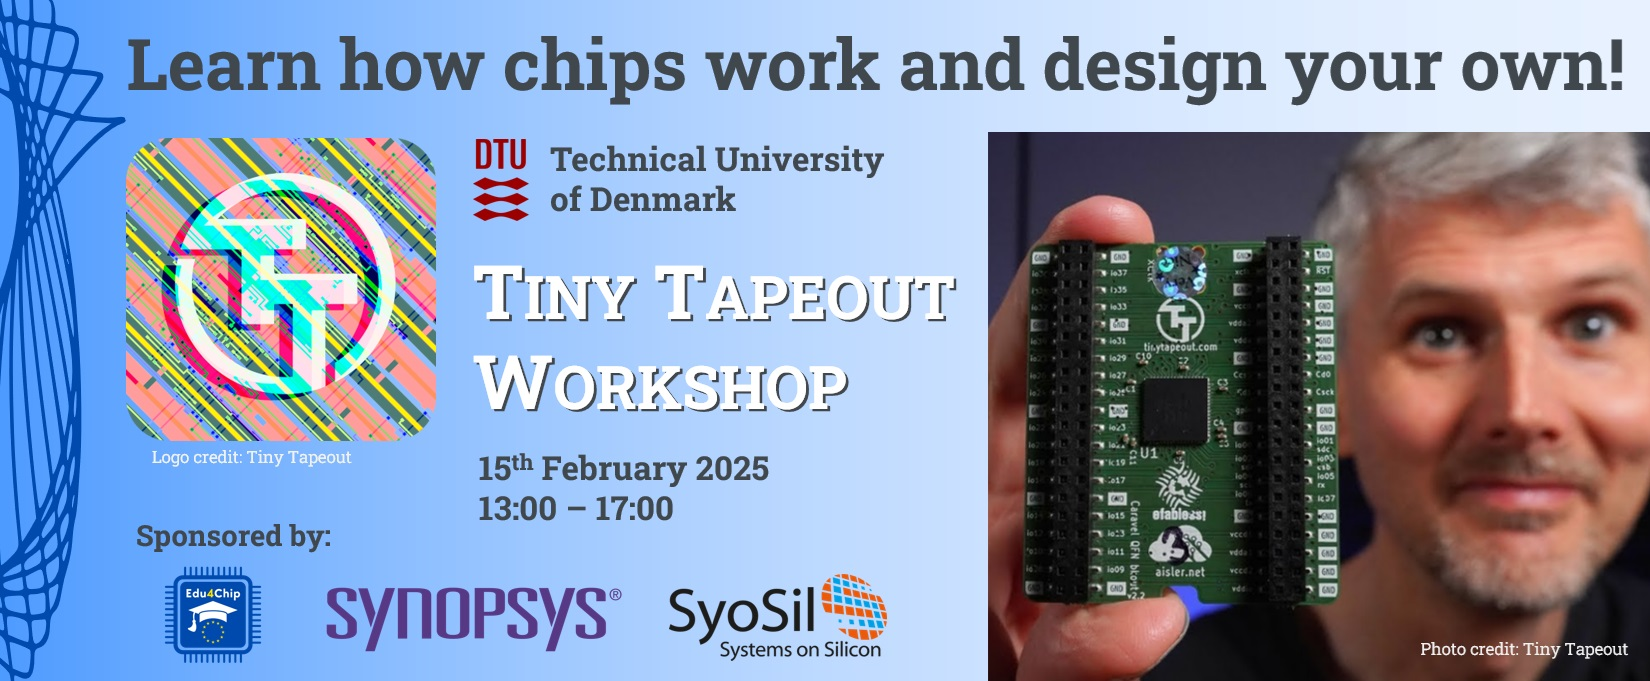
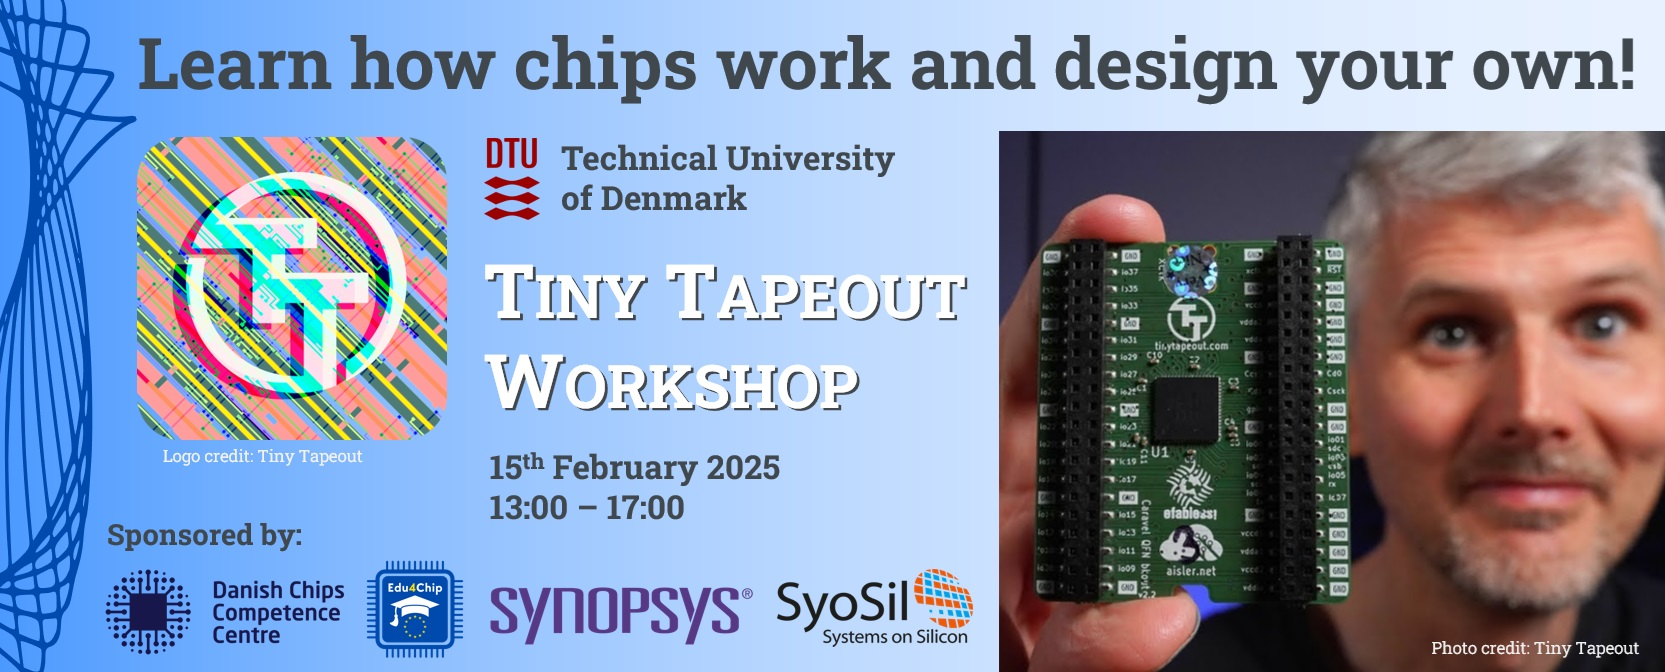
Adding DkCCC.

diff --git a/ttw2025DTU.html b/ttw2025DTU.html
@@ -75,7 +75,7 @@
 								Join the workshop to explore the fascinating world of microchips and <strong>gain hands-on experience</strong> designing your own. Whether you are a student, tech enthusiast, or simply curious about how chips work, <strong>this event is ideal for participants of all experience levels</strong>. Do not miss this unique opportunity to learn and create!
 							</p>
 							<p>	
-								This event is sponsored by <strong>Edu4Chip</strong>, <strong>Synopsys</strong>, and <strong>Syosil</strong>, and offers a chance to create something extraordinary: your own chip design!
+								This event is sponsored by the <strong>Danish Chip Competence Center</strong>, <strong>Edu4Chip</strong>, <strong>Synopsys</strong>, and <strong>Syosil</strong>, and offers a chance to create something extraordinary: your own chip design!
 							</p>
 							<ul class="actions" style="padding-left: 0px;">
 								<li><a href="https://www.conferencemanager.dk/tinytapeoutworkshop2025" class="button big" target="_blank">Register Now</a></li></br>
